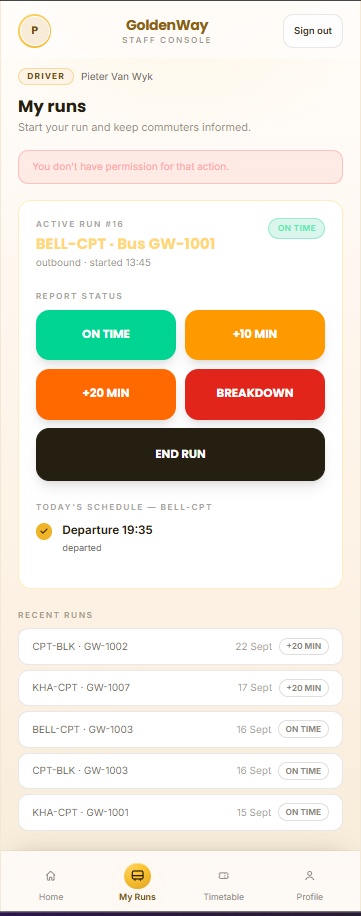
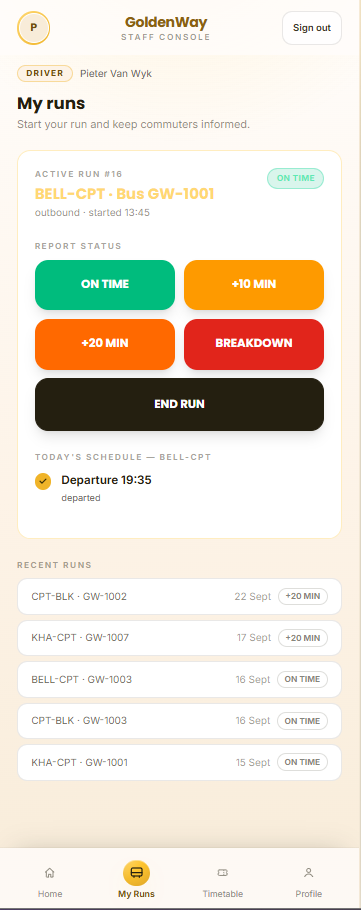
Tighten reflections and remove repetition

diff --git a/agile.md b/agile.md
@@ -13,14 +13,14 @@ GoldenWay is a web app our team (Group 26) built so Golden Arrow commuters can b
 
 <div class="facts">
   <div class="fact"><b>3</b><span>Driver user stories delivered</span></div>
-  <div class="fact"><b>10</b><span>commits under my name</span></div>
+  <div class="fact"><b>1,790</b><span>lines of code added across 15 files</span></div>
   <div class="fact"><b>6</b><span>database migrations I wrote</span></div>
   <div class="fact"><b>4</b><span>pull request merges of my branch</span></div>
   <div class="fact"><b>1</b><span>security hole found and fixed</span></div>
 </div>
 
 <div class="actions">
-  <a class="btn" href="https://trello.com/b/fMkfGDiw/goldenway-board">Open Trello Board v1</a>
+  <a class="btn" href="https://trello.com/b/fMkfGDiw/goldenway-board">Open our Trello board</a>
   <a class="btn btn--ghost" href="https://github.com/aidan-g-barends/GoldenWayApp">GoldenWay repository</a>
   <a class="btn btn--ghost" href="https://goldenwayapp.vercel.app/">Live app</a>
 </div>
@@ -118,11 +118,11 @@ An Agile team charter is a living, co-created agreement that sets out a team's p
 
 Two of the charter's rules ended up shaping my actual code on the Driver role.
 
-The first was **"every table has row-level security."** While working on driver runs, I found that the security rule on our `vehicle_runs` table only checked that a run belonged to the logged-in user. It never checked that the user was actually a driver. That meant a clerk, agent or inspector could create a fake run and mark it delayed, which would send a false service alert to commuters. I confirmed it on the live project with a clerk demo account, fixed it so only drivers (or admins) can create runs, and checked it was blocked. This is what the charter's ethical capability value looks like in practice: having RLS on a table is not enough, you have to test whether the rule actually protects users.
+The first was **"every table has row-level security."** While working on driver runs, I found that the security rule on our `vehicle_runs` table only checked that a run belonged to the logged-in user. It never checked that the user was actually a driver. That meant a clerk, agent or inspector could create a fake run and mark it delayed, which would send a false service alert to commuters. I confirmed it on the live project with a clerk demo account, fixed it so only drivers (or admins) can create runs, and checked it was blocked. Having RLS switched on was not enough. The rule itself had to be tested from the point of view of the wrong user.
 
-The second was **one owner per role and per shared file**. It kept us out of each other's code, but it also explains the hardest part of my work: getting the driver side to communicate with the admin and commuter sides. A delay report from a driver is only useful if the admin and the commuter see it, and those screens belonged to other people. I had to agree on how data passed between roles instead of just changing their code.
+The second was **Ubuntu: if someone is stuck, help them before moving on to your own next task**. In the week of the demo a teammate needed help setting up his inspector table, so I helped, even though my own driver work was already behind. The charter made that the expected thing to do, but nothing in our planning made room for it, which is part of why my sprint ran over (stop 4).
 
-**What I take forward:** I will read a team charter as a set of rules I can check my work against, not as paperwork. On my next team I want us to agree on how roles hand data to each other at the start, because that is where my work slowed down.
+**What I take forward:** I'll use a charter as a checklist for my own work, for example by testing every security rule I write against a user who should be blocked. I'd also want the next charter to say how helping a teammate gets planned, not just that we should do it.
 
 </div>
 </div>
@@ -208,6 +208,7 @@ I wrote the acceptance criteria for this page from how each feature was built an
 
 <div class="shots">
   <figure class="shot"><img src="assets/img/agile/driver-runs.png" alt="Driver Runs screen in GoldenWay"><figcaption>Driver "My runs" screen: active run, status buttons (on time, +10, +20, breakdown, end run), today's schedule and recent runs</figcaption></figure>
+  <figure class="shot"><img src="assets/img/agile/driver-home.png" alt="Driver landing page with the run status card and dashboard strip"><figcaption>Driver landing page: run status card, dashboard strip and shortcuts (DR-2)</figcaption></figure>
 </div>
 
 The repository's history starts on 16 September 2026 with a combined import of the app, so the tables only link commits recorded under my name.
@@ -273,8 +274,9 @@ The 19 blocks, ordered with MoSCoW priorities: project setup; auth (design, back
 #### How the backlog evolved
 
 <ul class="timeline">
-  <li><b>14 to 24 Jul 2026</b>Board layout agreed; product backlog of 19 roadmap cards created on Board v1.</li>
-  <li><b>11 Aug 2026</b>Team makes GoldenWay a multirole app. Our Team Lead takes over Trello and moves the work to <a href="https://trello.com/b/xyZiSfZl/goldenway-board-updated">Board v2</a>, with a backlog card of stories for each staff role.</li>
+  <li><b>Mar to May 2026 · PFP3</b>First board, <em>Group 26: PFP3 Assignment</em>: the business-idea deliverables, charter v1.0, feasibility analysis and the MVP wireframe, all submitted.</li>
+  <li><b>14 to 24 Jul 2026</b>New main board, the <a href="https://trello.com/b/fMkfGDiw/goldenway-board">Goldenway Board</a>: layout agreed and product backlog of 19 roadmap cards created. This is the board we submitted.</li>
+  <li><b>11 Aug 2026</b>Team makes GoldenWay a multirole app. Our Team Lead takes over Trello and manages the role-based work on an <a href="https://trello.com/b/xyZiSfZl/goldenway-board-updated">updated board</a>, with a backlog card of stories for each staff role.</li>
   <li><b>Aug to Sep 2026</b>I own the Driver slice of the new backlog (below).</li>
   <li><b>20 Oct 2026</b>Feature freeze: only bug fixes and documentation after this.</li>
 </ul>
@@ -291,8 +293,9 @@ The 19 blocks, ordered with MoSCoW priorities: project setup; auth (design, back
 </div>
 
 <div class="shots">
-  <figure class="shot"><img src="assets/img/agile/trello-board-v1.png" alt="Trello Board v1: User Stories, Product backlog with 19 roadmap cards, In Progress and Completed lists"><figcaption>Trello Board v1: the Product backlog list with the 19 roadmap cards. "A" is me.</figcaption></figure>
-  <figure class="shot"><img src="assets/img/agile/trello-board-v2.png" alt="Board v2, managed by the Team Lead after the multirole decision"><figcaption>Board v2, managed by the Team Lead</figcaption></figure>
+  <figure class="shot"><img src="assets/img/agile/trello-pfp3-board.png" alt="First Trello board, Group 26 PFP3 Assignment, with all seven semester 1 deliverables in Submitted"><figcaption>First board (PFP3, semester 1): all seven deliverables submitted</figcaption></figure>
+  <figure class="shot"><img src="assets/img/agile/trello-board-v1.png" alt="Goldenway Board: User Stories, Product backlog with 19 roadmap cards, In Progress and Completed lists"><figcaption>Goldenway Board, our main and submitted board: the Product backlog list with the 19 roadmap cards. "A" is me.</figcaption></figure>
+  <figure class="shot"><img src="assets/img/agile/trello-board-v2.png" alt="Updated board, managed by the Team Lead after the multirole decision"><figcaption>Updated board, managed by the Team Lead</figcaption></figure>
 </div>
 
 </div>
@@ -378,7 +381,7 @@ create policy vehicle_runs_insert on public.vehicle_runs
 
 This sprint did not go to plan. My driver work took longer than expected, and during the same week I had to help a teammate set up his inspector table. The sprint table shows it: three of the nine items (the login bug, the staff profile and the inspector help) were not Driver stories at all. Most of my commits landed between 16 and 18 September, right around the 17 September demo.
 
-Two lessons came out of that. First, a sprint backlog has to leave room for things you cannot see coming. Helping a teammate was the right call under our Ubuntu value, but because nobody planned for it, it squeezed my own work towards the deadline. Second, cross-role work is where estimates go wrong. Making a driver's delay reach the admin and the commuter was the hardest part, because it touched other people's parts of the system.
+Two lessons came out of that. First, a sprint backlog has to leave room for things you cannot see coming. Helping a teammate was the right call under our Ubuntu value, but because nobody planned for it, it squeezed my own work towards the deadline. Second, I underestimated the cross-role work. The driver screen was one task, but getting a delay to show up for admin and commuters touched parts of the app that other people owned.
 
 What worked was the time box itself. A one-week sprint with a fixed demo date forced me to decide what "done" meant for the Driver role, and to finish it instead of polishing one screen forever.
 
@@ -407,7 +410,7 @@ What worked was the time box itself. A one-week sprint with a fixed demo date fo
 
 <div class="panel" id="log-ev" role="tabpanel" markdown="1">
 
-An Agile logbook records stand-ups, sprint plans and retrospectives so a team can track progress and blockers over time. Each week below lists the evidence it is based on: Trello cards, commits in the GoldenWay repository and milestones in our charter.
+An Agile logbook records stand-ups, sprint plans and retrospectives so a team can track progress and blockers over time. I compiled this record from Trello cards, commits and merges in the GoldenWay repository, and milestones in our charter. Each week lists its evidence.
 
 <details markdown="1" open>
 <summary><code>Week 1 · 13 to 17 Jul</code> Board layout and the pitch</summary>
@@ -446,7 +449,7 @@ An Agile logbook records stand-ups, sprint plans and retrospectives so a team ca
 <summary><code>Week 5 · 11 to 14 Aug</code> Multirole decision: I take the Driver role</summary>
 
 - **Done:** team agreed to make GoldenWay a multirole app and designed the database schema (11 Aug).
-- **My part:** assigned the Driver role: starting runs, delay reporting, run timelines and on-time tracking. The Team Lead took over the Trello board from here (Board v2).
+- **My part:** assigned the Driver role: starting runs, delay reporting, run timelines and on-time tracking. The Team Lead took over running the Trello board from here.
 - **Next:** get the Driver role working against the real database.
 - **Evidence:** Charter section 3 and milestones.
 </details>
@@ -512,7 +515,7 @@ Tracking also shows the difference between **what** happened and **why**. Git an
 
 My commit messages taught me the same lesson. *"fix RLS privilege escalation on vehicle runs"* explains itself months later. *"pudate"* on 18 September tells nobody anything, and I had to open the files to see that it was the inspector work. Clear commit messages are a logbook too.
 
-This connects back to the charter's transparency value: blockers come up at stand-up and the board shows the real state of the work. When progress and blockers are logged, the team and the lecturer can see problems coming and help. In a workplace, that is the difference between a manager knowing a task is at risk on Tuesday and finding out on Friday.
+This connects back to the charter's transparency value: blockers come up at stand-up and the board shows the real state of the work. When progress and blockers are written down as they happen, the team can see a problem coming and help before the deadline instead of after it.
 
 **What I take forward:** log progress the same day in a short done, next, blocked format, spread my work across the sprint instead of bunching it near the demo, and write commit messages someone else can understand.
 
@@ -525,9 +528,9 @@ This connects back to the charter's transparency value: blockers come up at stan
 
 <h2 class="bar">What I take into the workplace</h2>
 
-The five artefacts tell one story. The **charter** set the rules (role ownership, RLS on every table, a logbook each). The **product backlog** I managed in July was replaced by a role-based one when the product changed. My **user stories** came from that backlog, and their tasks became my **sprint backlog** for the week of the September demo. The **logbook** shows where that sprint ran over, and why logging blockers early matters.
+The charter set the rules I worked under, the product backlog gave me the Driver stories, and those stories became my tasks in the September sprint. The logbook shows where that sprint ran over.
 
-The biggest lesson across all five: in a team project, the hard work sits between roles. What took the most effort was making a driver's report reach admin and commuters, keeping that path secure, and helping a teammate along the way. Agile tools such as stories, sprints, boards and logbooks matter most at exactly those points, because they keep everyone's work visible to everyone else.
+The main thing I'm taking with me: test my own work against the people it affects (the clerk who shouldn't be able to create a run, the commuter who needs to see the delay), and plan for the work that sits between roles, because that is where my estimates were wrong.
 
 </section>
 
